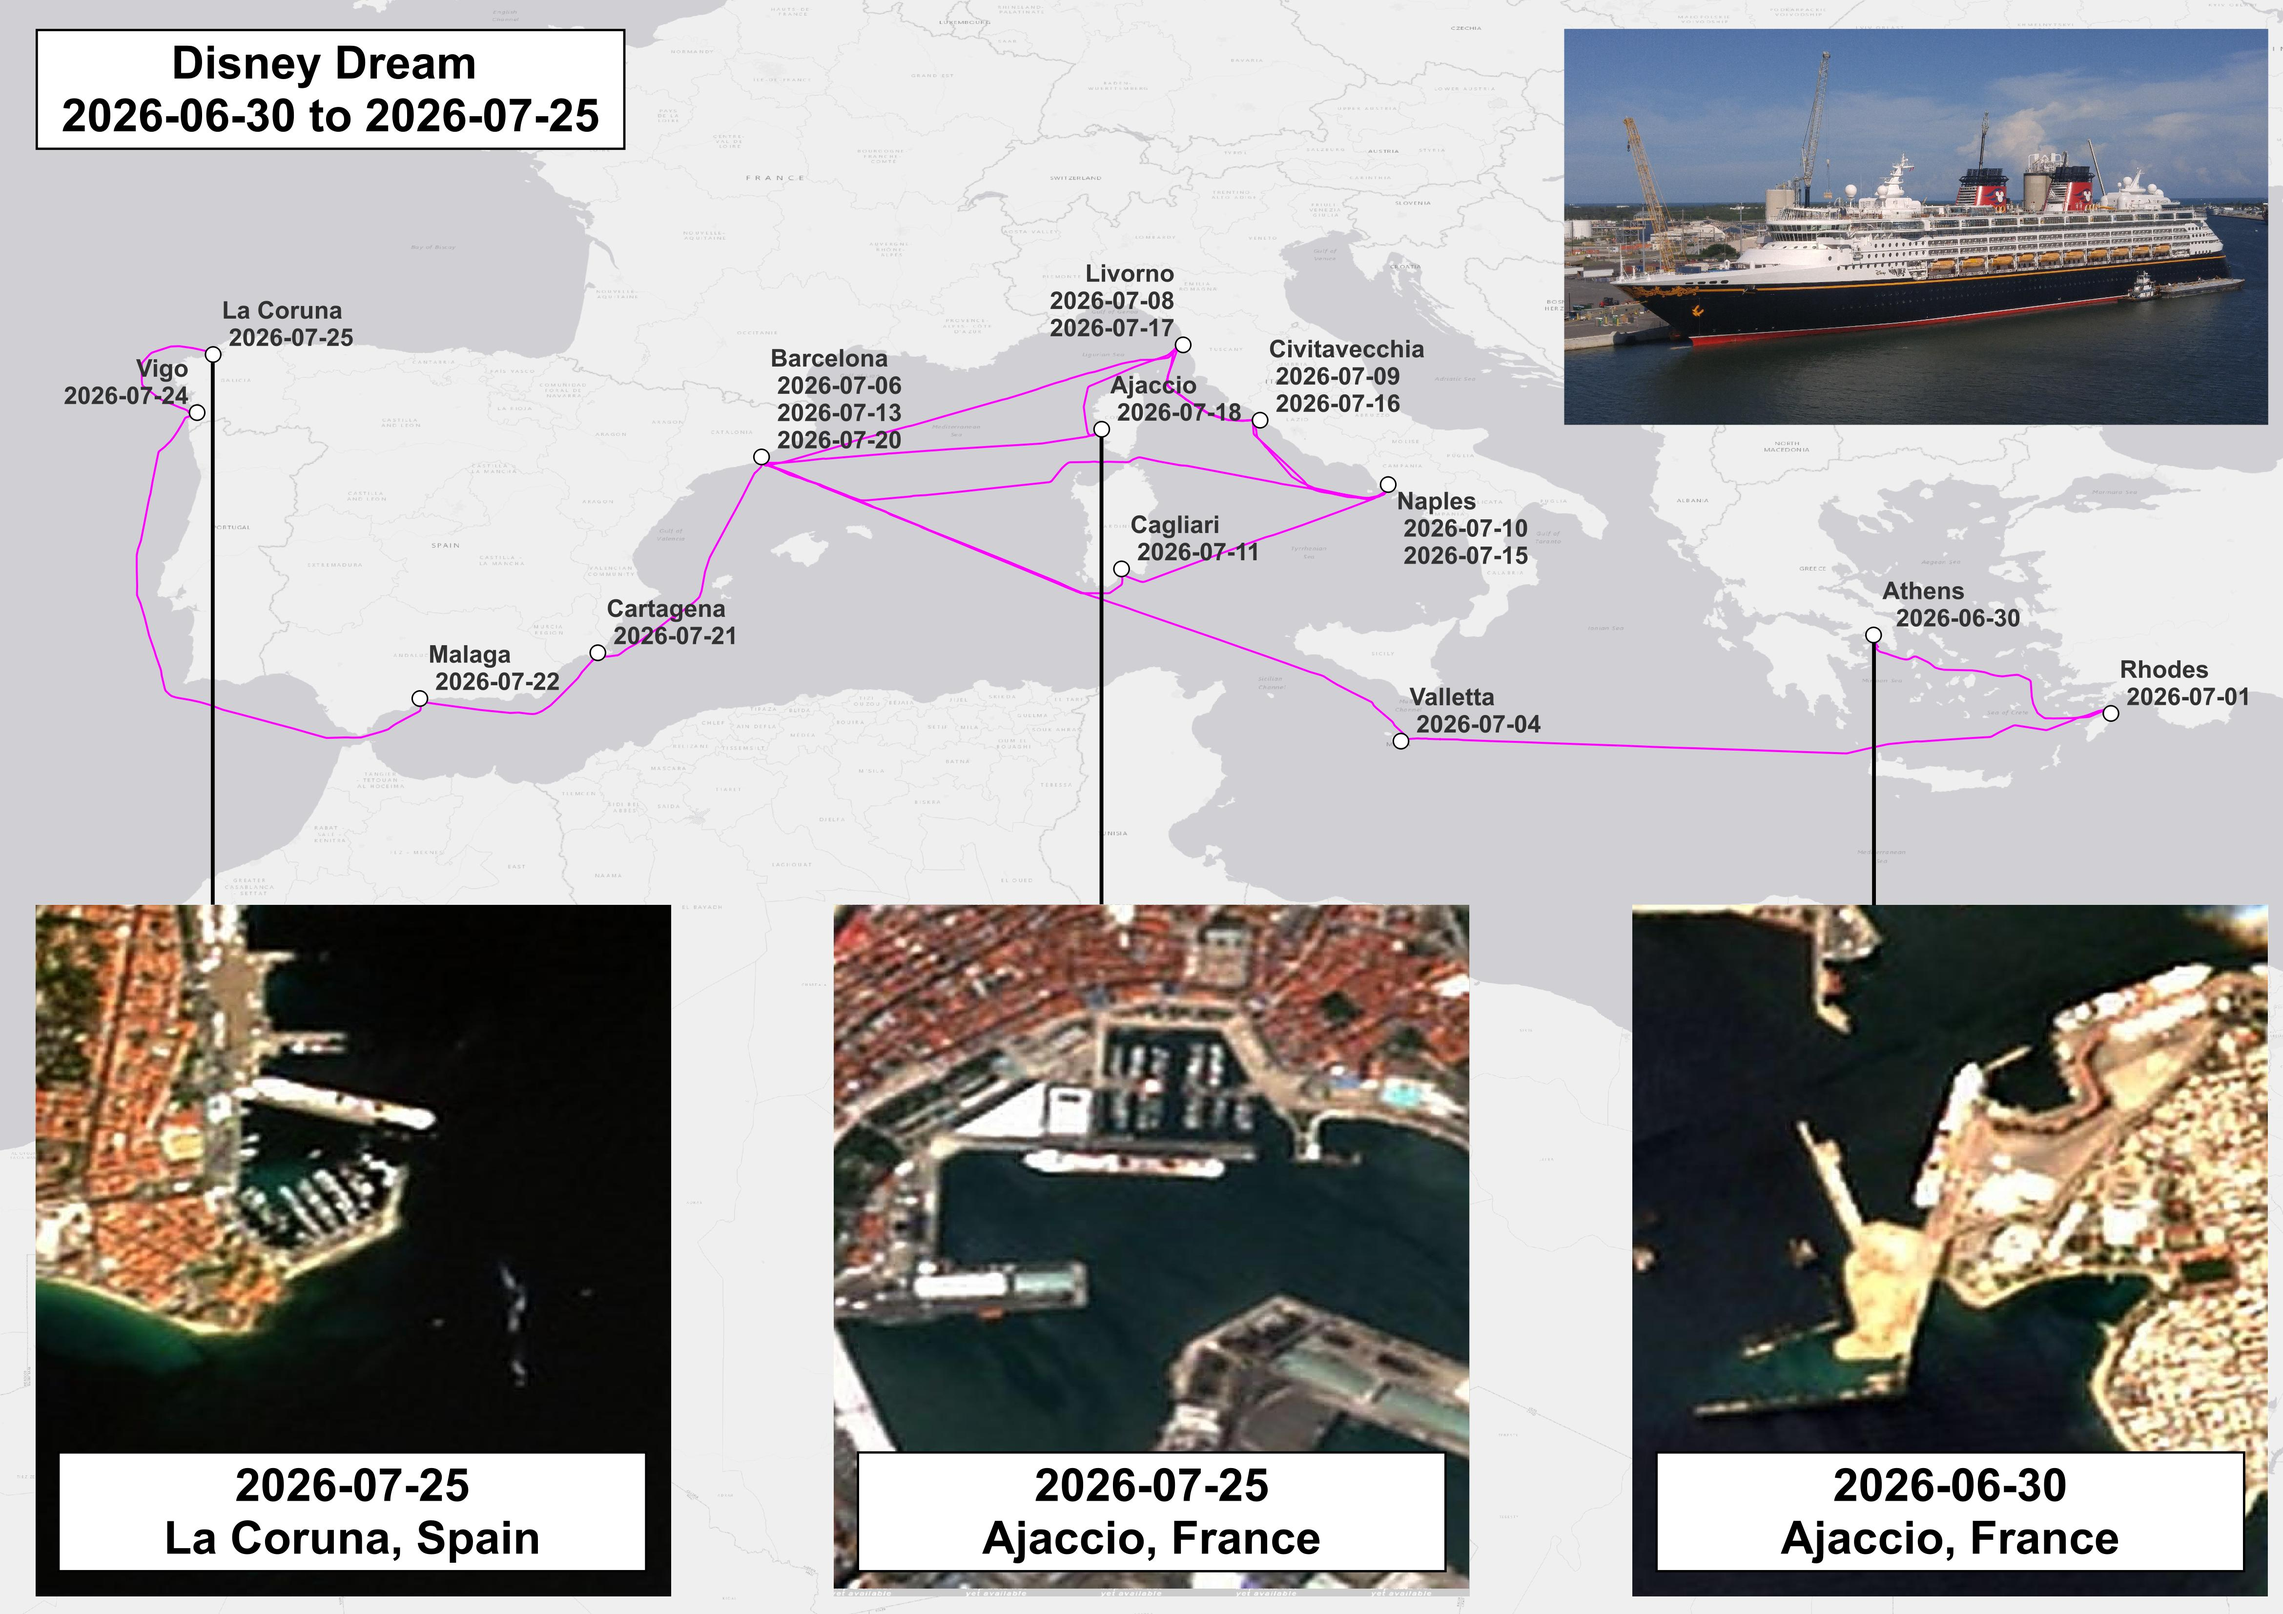
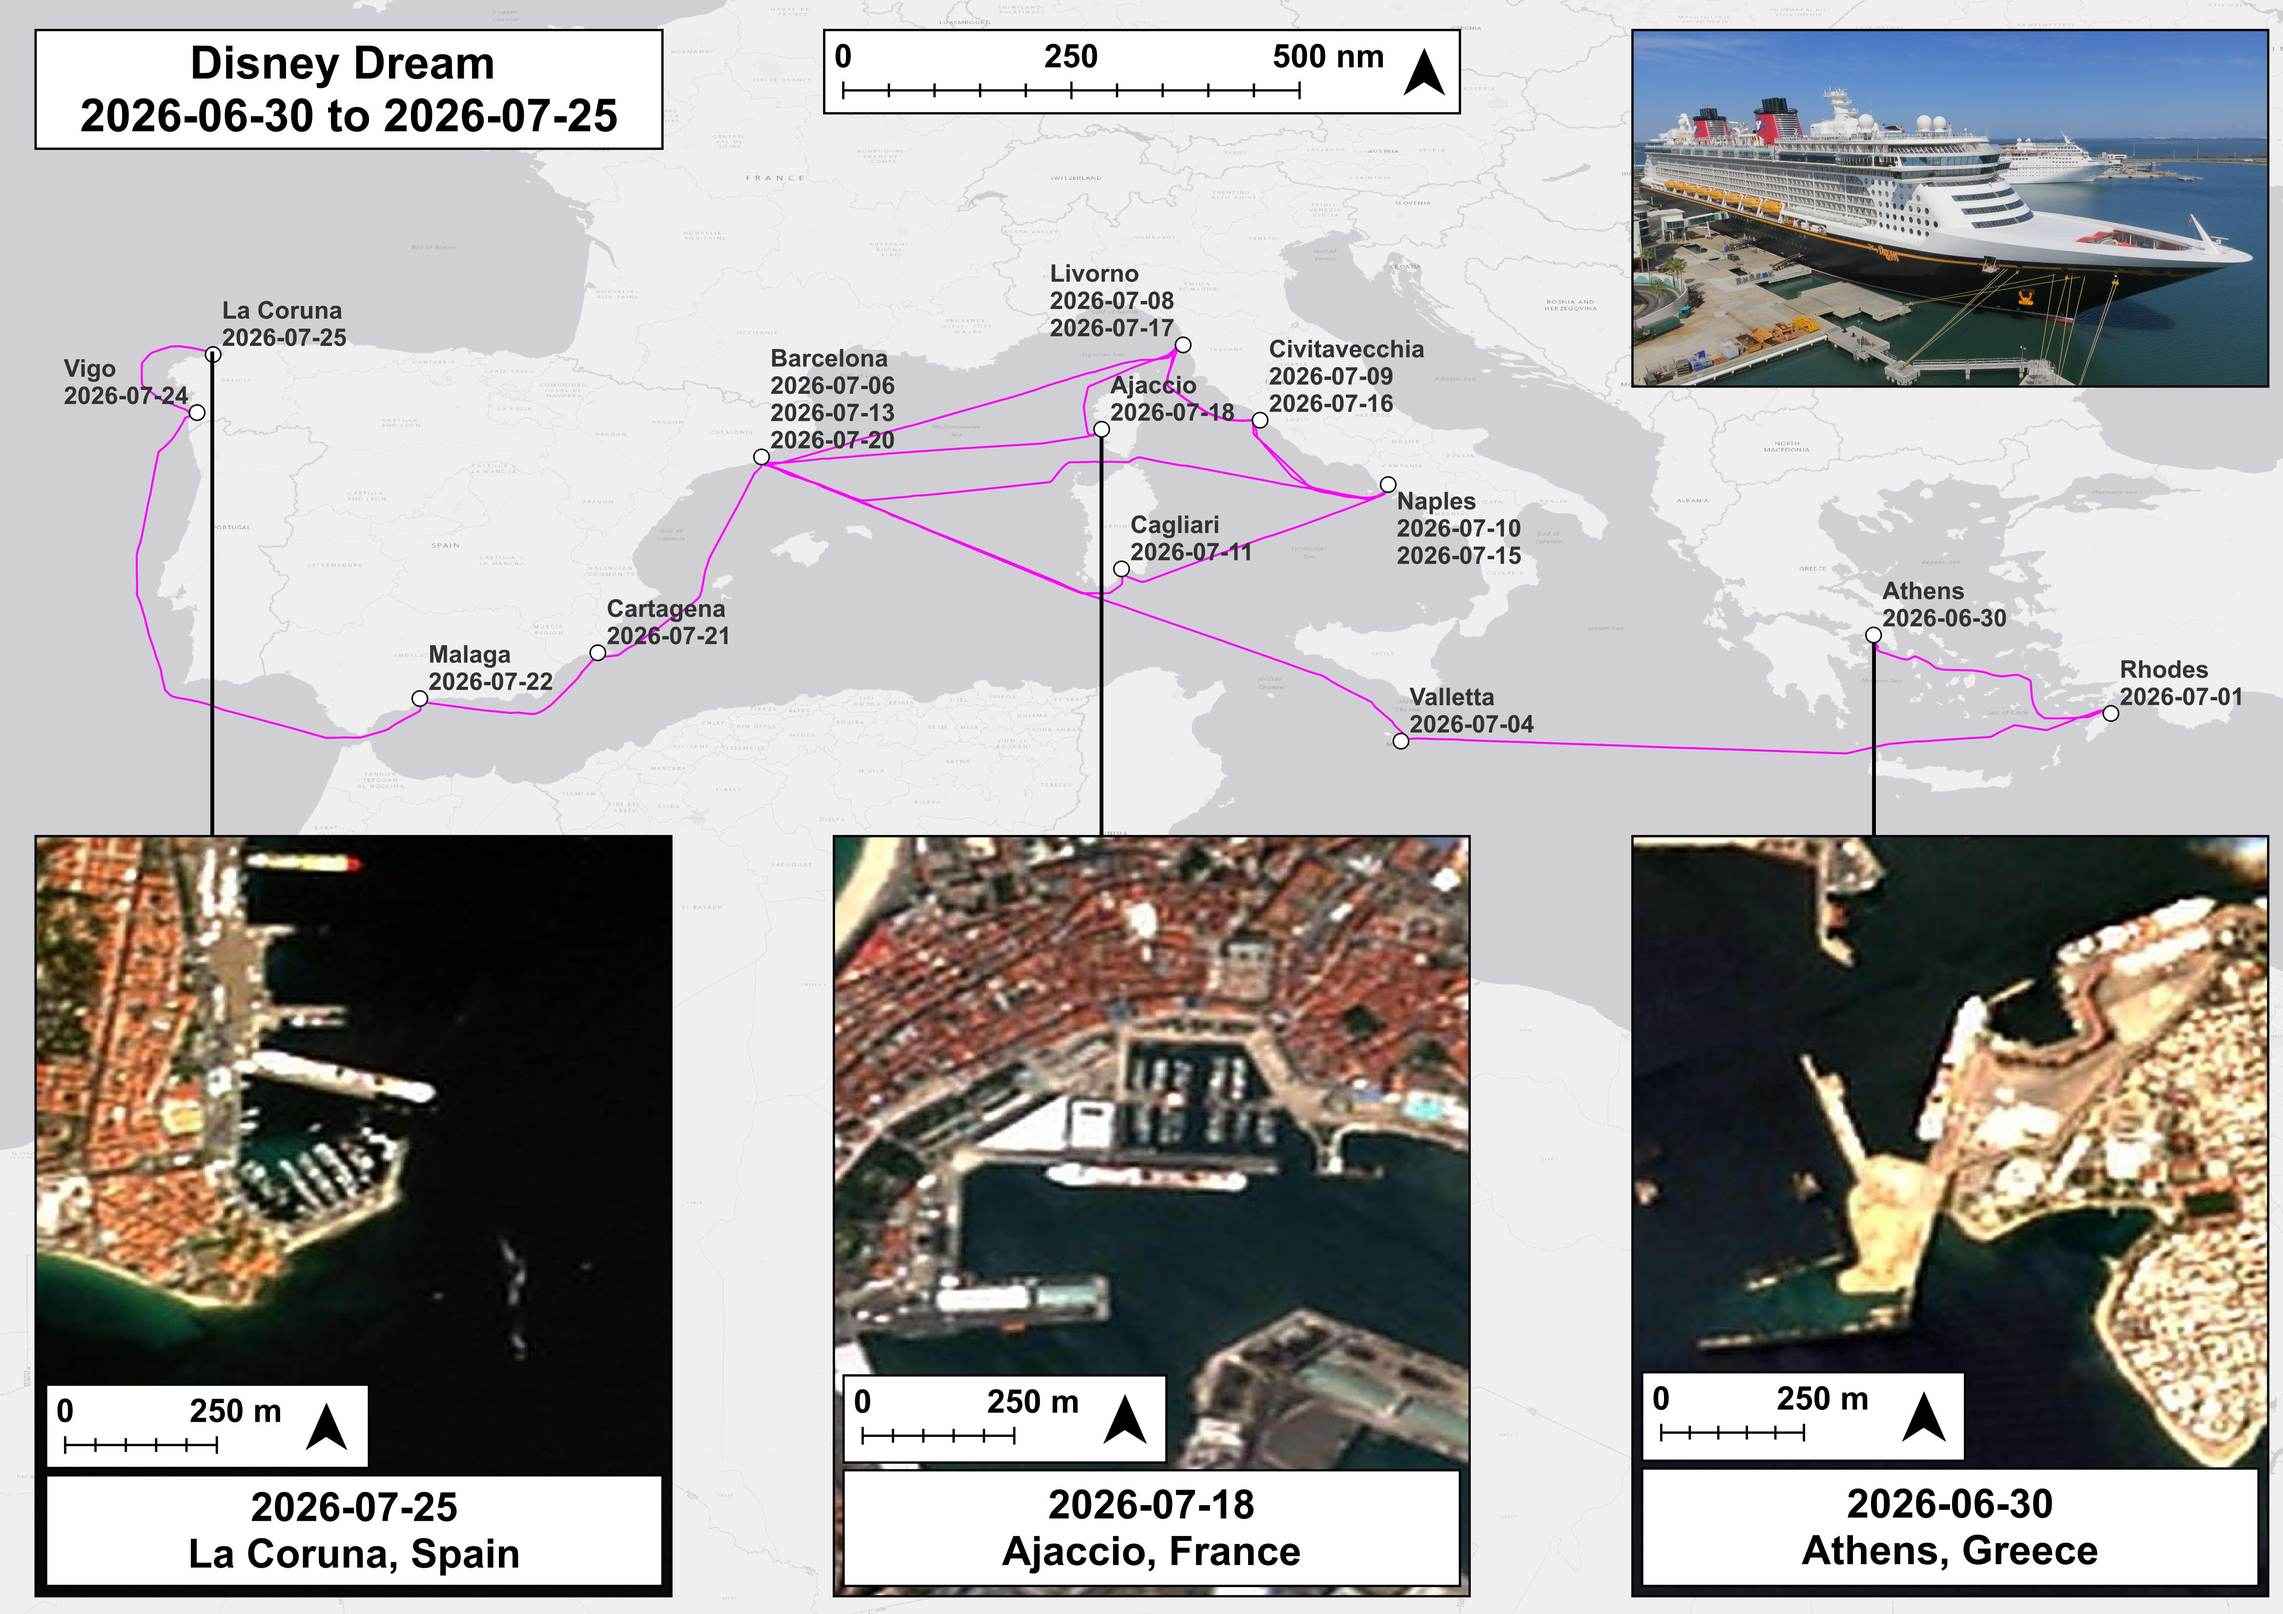
disney dream satellite image plot

diff --git a/content/posts/2023/08-15__Space-explorations-next-frontier-the-race-to-reach-mars.md b/content/posts/2023/08-15__Space-explorations-next-frontier-the-race-to-reach-mars.md
@@ -4,7 +4,7 @@ date: 2023-08-15T13:45:49+07:00
 slug: /space-explorations-next-frontier/
 description: Explore the exciting endeavors and challenges of reaching Mars in the new era of space exploration.
 image: images/Disney_Dream_20260822.jpg
-caption: Photo by Daniele Colucci on Unsplash
+caption: Satellite Images are from Sentinal-2 via Google Earth Engine, Disney Dream Photo by user JamesHills on Pixabay
 categories:
   - space
 tags:
